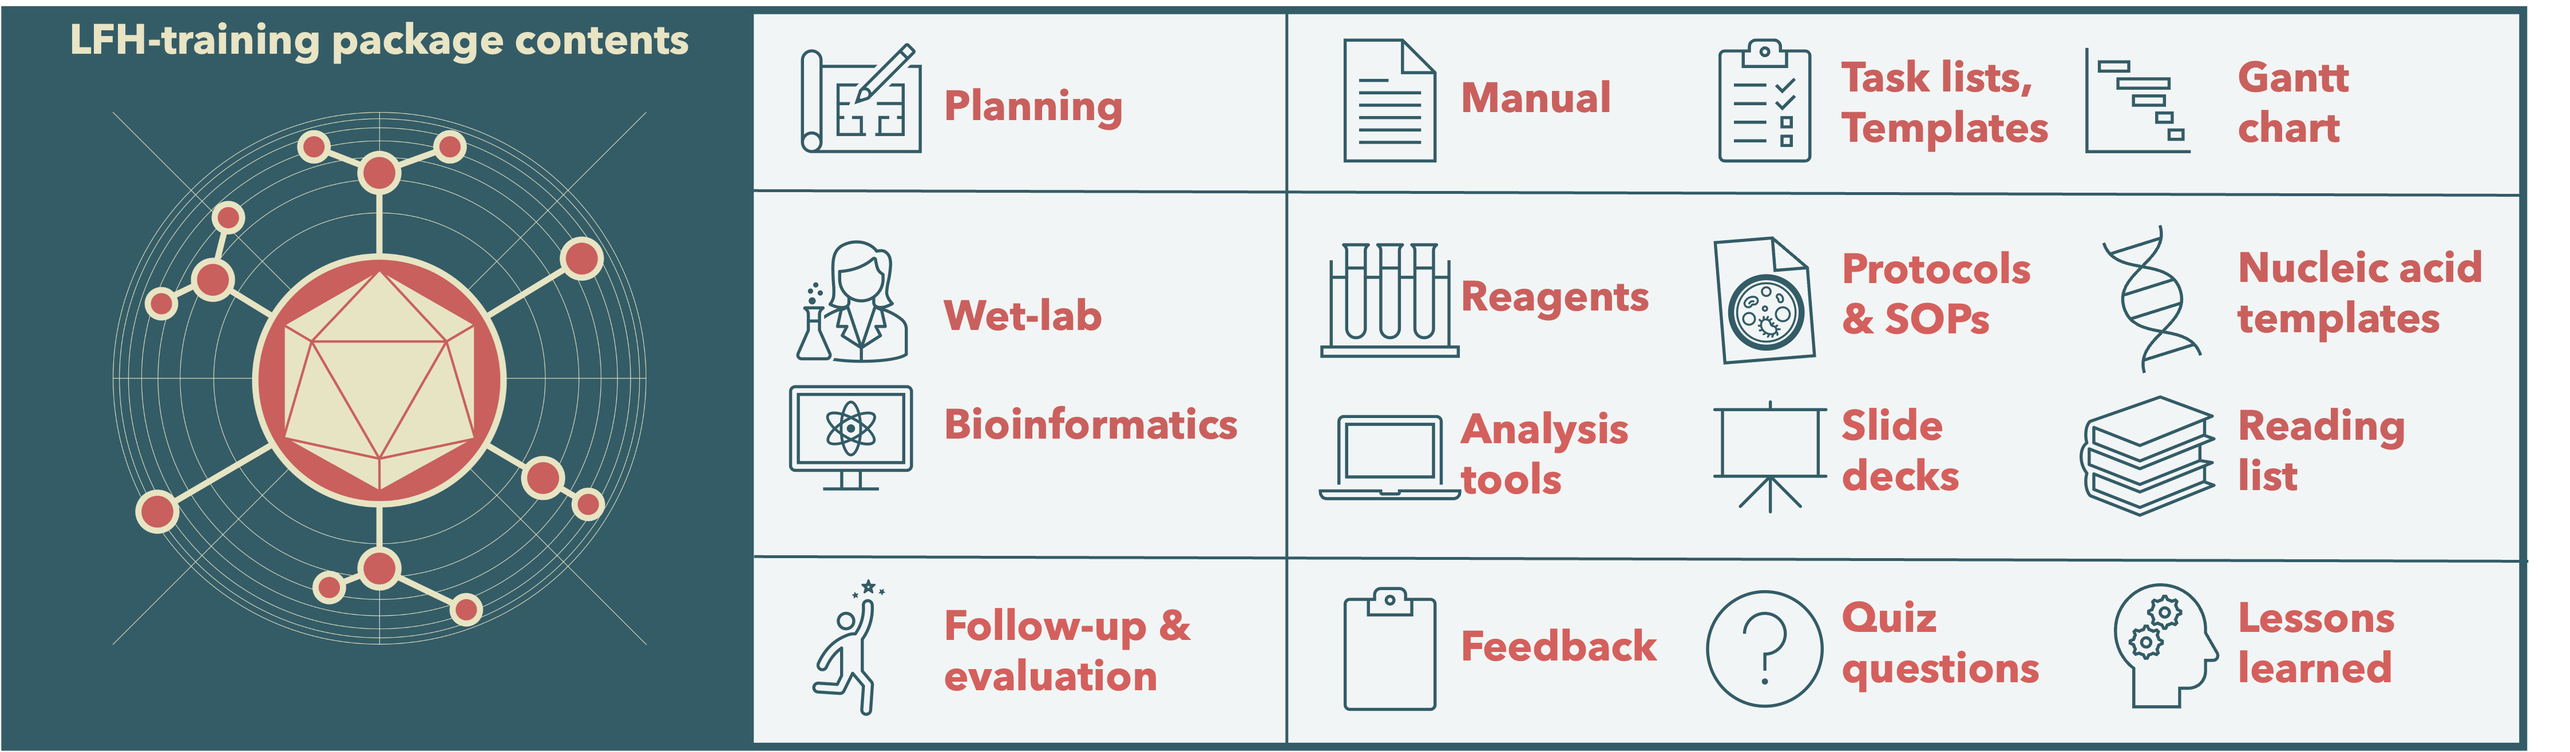
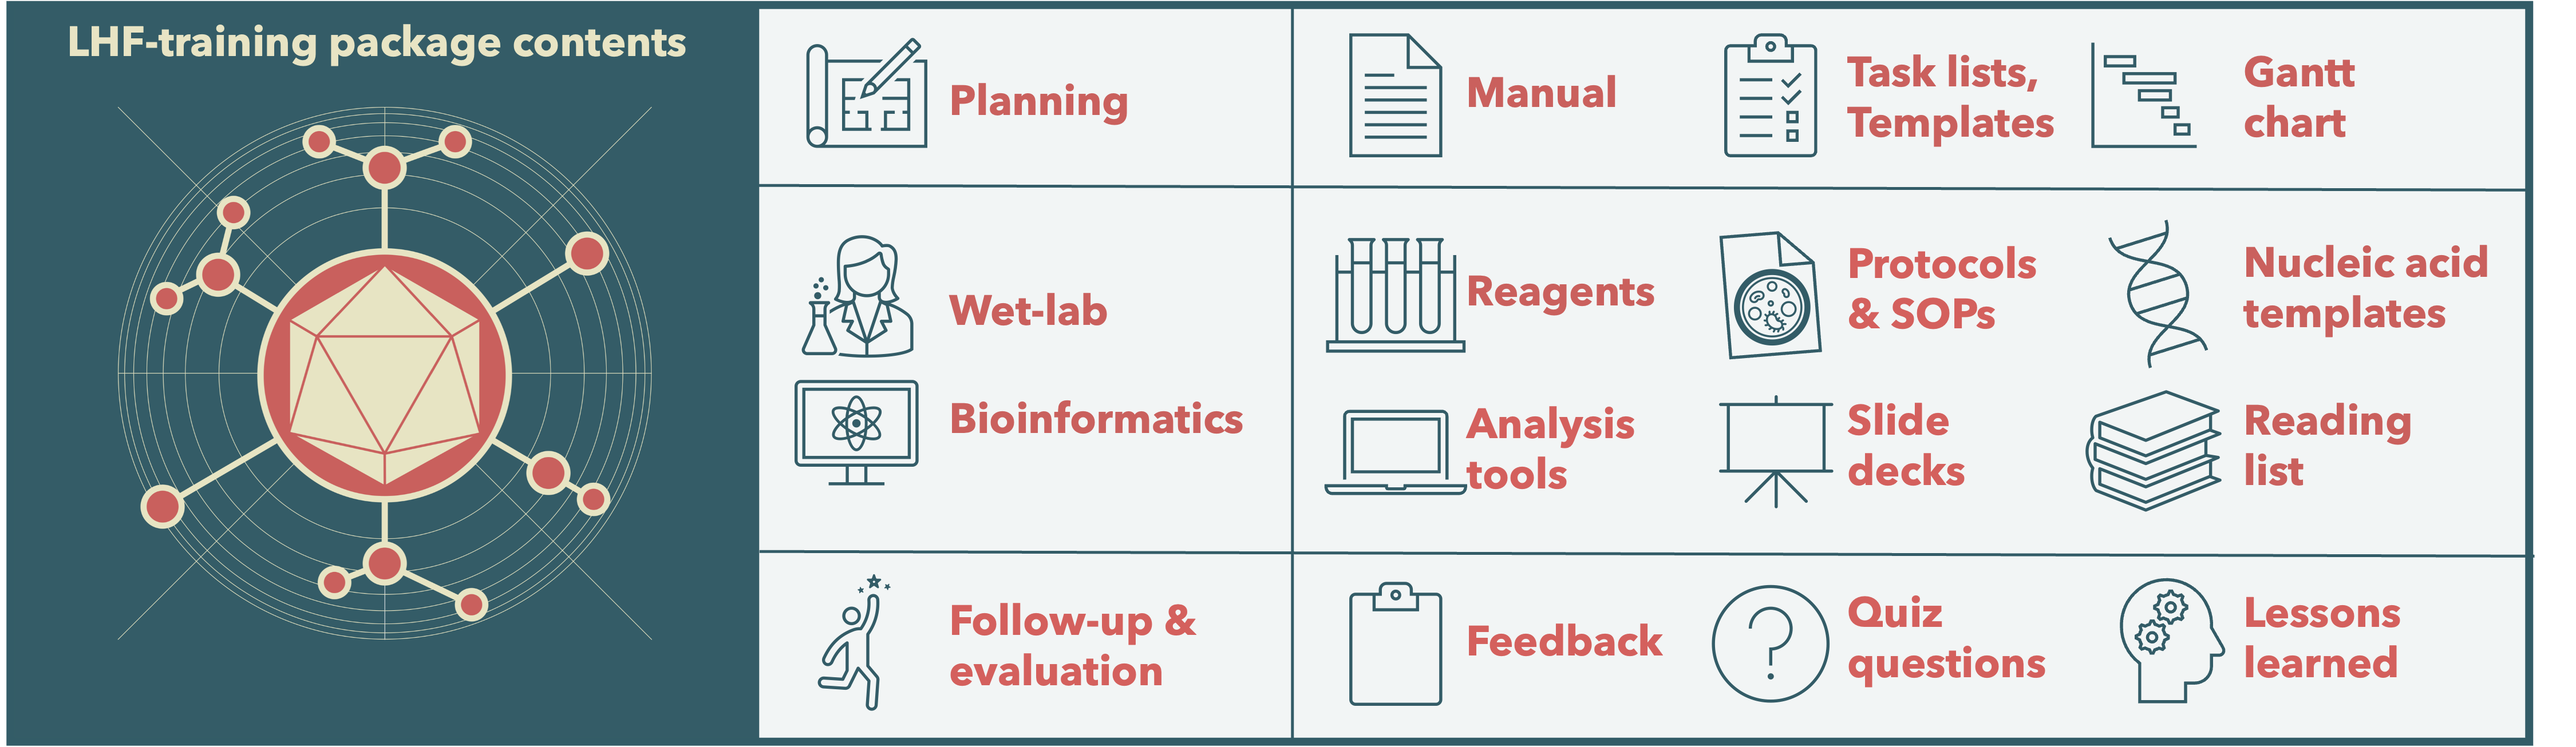
fixing typos

diff --git a/pages/training/workshops/lhfv/workshop-overview.md b/pages/training/workshops/lhfv/workshop-overview.md
@@ -7,7 +7,7 @@ permalink: /workshops/lhfv/workshop-overview.html
 title_text: "ARTIC practical training: For real, real-time, real-safe, full-stack, genomics-enabled outbreak surveillance and response training."
 subtitle_text: "Workshop Overview"
 icon: 
-document_name: "LFH-workshop-overview"
+document_name: "LHF-workshop-overview"
 version: v1.0.0
 creation_date: 2026-03-04
 last_updated: 2026-03-04
@@ -44,4 +44,4 @@ On completion of the course, participants can expect to be able to:
 - Understand the components of a phylogenetic tree and interpret phylogenetic trees and epidemiological data
 
 ## Package contents
-<img width="1000" src="/images/workshop-lhfv/package_contents.png">
+<img width="850" src="/images/workshop-lhfv/package_contents.png">
